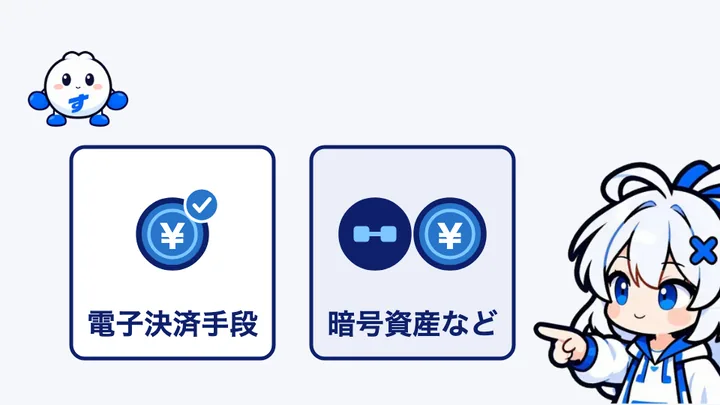
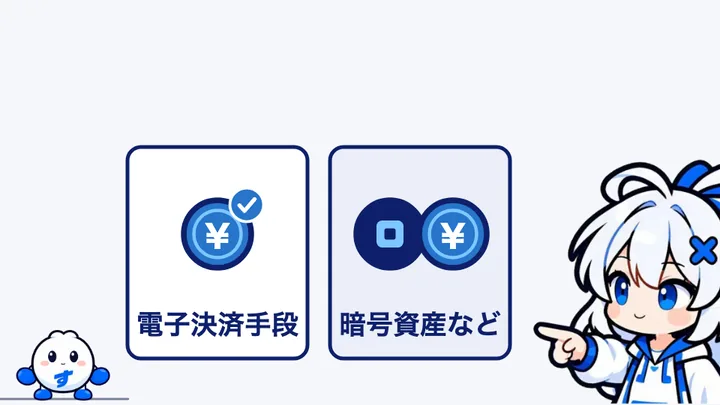
fix(learn): すてぶるくんを床に立たせ、灰色の矢印とサムネイルの副題のコントラストを上げる（Astra のプロンプトも接地・差し出しなし・#2775ca に）

Changed region(s): [[0.0, 0.3556, 0.7333, 1.0], [0.0306, 0.1185, 0.1833, 0.3259]]

diff --git a/scripts/figures/engine.js b/scripts/figures/engine.js
@@ -4,8 +4,8 @@
 (function () {
   "use strict";
   const W = 960, H = 540;
-  // 青は サイトの青（#2775ca。2026-11-06 に統一）。ほかはキャラクターの配色
-  const C = { blue: "#2775ca", light: "#7EC6FF", silver: "#EBEEF7", navy: "#0F206B", white: "#FFFFFF", bg: "#F6F7FB", gray: "#8a93a8" };
+  // 青は サイトの青（#2775ca。2026-11-06 に統一）。ほかはキャラクターの配色。gray は背景 #F6F7FB に対して 3.5:1（線・矢印に使う。3:1 以上）
+  const C = { blue: "#2775ca", light: "#7EC6FF", silver: "#EBEEF7", navy: "#0F206B", white: "#FFFFFF", bg: "#F6F7FB", gray: "#7a8399" };
   const FONT = '"Hiragino Sans", "Hiragino Kaku Gothic ProN", "Noto Sans JP", "Yu Gothic", sans-serif';
 
   // ---------- 動き ----------
@@ -132,10 +132,9 @@
     },
     crypto(ctx) {
       ctx.beginPath(); ctx.arc(0, 0, 30, 0, Math.PI * 2); shape(ctx, C.navy);
-      // 実在の暗号資産の印に似ないよう、図のブロックチェーンと同じ「つながった箱」にする
-      ctx.beginPath(); ctx.moveTo(-6, 0); ctx.lineTo(6, 0); shape(ctx, null, C.light, 4);
-      rr(ctx, -19, -7, 14, 14, 3); shape(ctx, C.light, null);
-      rr(ctx, 5, -7, 14, 14, 3); shape(ctx, C.light, null);
+      // 実在の暗号資産の印に似ないよう、図のブロックチェーンと同じ「箱」を 1 つ
+      rr(ctx, -12, -12, 24, 24, 5); shape(ctx, C.light, null);
+      rr(ctx, -5, -5, 10, 10, 2); shape(ctx, C.navy, null);
     },
   };
 
@@ -212,22 +211,25 @@
     const w = h * 400 / 388;
     ctx.drawImage(IMG[key], x - w / 2, y - h, w, h);
   }
-  // すてぶるくん（部品 374×261 を左上そろえで重ねる）。(x, y) は中心、w は幅。eyes：open / left / right / wide / half / closed
-  function drawKun(ctx, t, { eyes = "open", mouth = "rest", x = 120, y = 120, w = 150, blinkAt = [], bob = 0 } = {}) {
-    const h = w * 261 / 374;
+  // すてぶるくん（部品 374×261 を左上そろえで重ねる）。起きているときは足を床に付けて立つ（浮くのは寝ているときだけ。README「キャラクターの素材と動き」）。
+  // x は中心、floor は床の高さ（足の裏がここに来る）、w は幅。eyes：open / left / right / wide / half / closed。床の線も一緒に描く
+  const KUN_SOLE = 252 / 261; // 部品の絵の中で、足の裏がある高さ
+  function drawKun(ctx, t, { eyes = "open", mouth = "rest", x = 120, floor = 530, w = 130, blinkAt = [] } = {}) {
+    const h = w * 261 / 374, top = floor - h * KUN_SOLE;
+    ctx.save(); ctx.strokeStyle = C.gray; ctx.lineWidth = 3; ctx.lineCap = "round";
+    ctx.beginPath(); ctx.moveTo(x - w * 0.62, floor); ctx.lineTo(x + w * 0.62, floor); ctx.stroke(); ctx.restore();
     const b = blink(t, blinkAt);
     const e = b === "closed" ? "closed" : b === "half" ? "half" : eyes;
-    const dy = bob * Math.sin(t * Math.PI * 2 / 2.5); // 2.5 秒で 1 往復（図の長さを 2.5 の倍数にすると、つなぎ目で跳ねない）
-    for (const part of ["foot-l", "foot-r"]) ctx.drawImage(IMG[`kun/${part}`], x - w / 2, y - h / 2, w, h);
-    for (const part of ["arm-l", "arm-r", "body", "cheeks", `eyes-${e}`, `mouth-${mouth}`]) ctx.drawImage(IMG[`kun/${part}`], x - w / 2, y - h / 2 + dy, w, h);
+    for (const part of ["foot-l", "foot-r", "arm-l", "arm-r", "body", "cheeks", `eyes-${e}`, `mouth-${mouth}`]) ctx.drawImage(IMG[`kun/${part}`], x - w / 2, top, w, h);
   }
 
   // ---------- 図の登録 ----------
   const canvas = document.getElementById("stage");
   const ctx = canvas.getContext("2d");
   let fig = null;
-  let figureLoaded;
-  const figureReady = new Promise((res) => { figureLoaded = res; });
+  let figureLoaded, figureFailed;
+  const figureReady = new Promise((res, rej) => { figureLoaded = res; figureFailed = rej; });
+  window.figureFailed = (msg) => figureFailed(new Error(msg)); // stage.html が図のファイルを読めなかったときに呼ぶ
   function figure(def) {
     if (!(def.duration >= 6 && def.duration <= 12)) throw new Error("duration は 6〜12 秒");
     fig = def;

diff --git a/scripts/figures/stablecoin-payments/law.js b/scripts/figures/stablecoin-payments/law.js
@@ -1,14 +1,14 @@
 // 日本の資金決済法での区分（本文「日本での位置づけ」）。
 // 法令上の要件を満たして発行された円のステーブルコイン（チェックの印つき）は「電子決済手段」、ビットコインなどは「暗号資産」。
 // 価格が円に連動しているように見えても、仕組みによっては暗号資産などとして扱われる（印のない青いコインが右へ）。
-// 文字は 3 か所まで（2 つの箱の名前と、途中だけ出る すてぶるくんの吹き出し）。
+// 文字は 3 か所まで（2 つの枠の名前と、途中だけ出る すてぶるくんの吹き出し）。すてぶるくんは左下の床に立つ。
 FX.figure({
   duration: 10,
   draw(ctx, t) {
     const { C, COIN, ICON, at, text, rr, shape, bubble, along, track, ramp, clamp, SNAP, HEAVY, PLAY, drawChan, drawKun } = FX;
-    const O = [390, 84]; // コインが出てくる場所（2 つの区分の間の真上）
-    const BIN = [{ x: 230, label: "電子決済手段", at: 0.0, fill: C.white }, { x: 550, label: "暗号資産など", at: 0.25, fill: C.silver }];
-    const TOP = 196, BOT = 478, BW = 270;
+    const O = [425, 84]; // コインが出てくる場所（2 つの区分の間の真上）
+    const BIN = [{ x: 290, label: "電子決済手段", at: 0.0, fill: C.white }, { x: 560, label: "暗号資産など", at: 0.25, fill: C.silver }];
+    const TOP = 196, BOT = 478, BW = 240;
 
     // 区分の枠（コインより奥）。名前は下に
     for (const b of BIN) {
@@ -16,14 +16,14 @@ FX.figure({
       at(ctx, b.x, (TOP + BOT) / 2, s, s, () => {
         const h = BOT - TOP;
         rr(ctx, -BW / 2, -h / 2, BW, h, 18); shape(ctx, b.fill);
-        text(ctx, b.label, 0, h / 2 - 46, { size: 38 });
+        text(ctx, b.label, 0, h / 2 - 46, { size: 36 });
       });
     }
 
     const coins = [
-      { kind: "stable", badge: true, show: 0.9, go: 1.7, to: [230, 312] },
-      { kind: "crypto", badge: false, show: 3.0, go: 3.7, to: [500, 312] },
-      { kind: "stable", badge: false, show: 5.0, go: 7.0, to: [600, 312] },
+      { kind: "stable", badge: true, show: 0.9, go: 1.7, to: [290, 312] },
+      { kind: "crypto", badge: false, show: 3.0, go: 3.7, to: [520, 312] },
+      { kind: "stable", badge: false, show: 5.0, go: 7.0, to: [604, 312] },
     ];
     let watch = null;
     for (const c of coins) {
@@ -43,10 +43,10 @@ FX.figure({
 
     // すてぶるくんの問い（3 つめのコインが迷っている間だけ）
     const q = ramp(t, 5.4, 5.7) * (1 - ramp(t, 6.9, 7.2));
-    at(ctx, 0, 0, 1, q, () => bubble(ctx, "どっち？", 246, 82, { size: 34, tail: -64 }));
+    at(ctx, 0, 0, 1, q, () => bubble(ctx, "どっち？", 88, 430, { size: 30, tail: -6 }));
 
     drawChan(ctx, t, { pose: t < 0.6 ? "normal" : "point", x: 872, h: 330, blinkAt: [0.25] });
-    const dx = watch ? watch[0] - 104 : 0;
-    drawKun(ctx, t, { x: 104, y: 118, w: 150, eyes: dx > 120 ? "right" : "open", mouth: q > 0.5 ? "talk-o" : "rest", blinkAt: [2.4, 8.6] });
+    const dx = watch ? watch[0] - 84 : 0;
+    drawKun(ctx, t, { x: 84, floor: 532, w: 140, eyes: dx > 60 ? "right" : "open", mouth: q > 0.5 ? "talk-o" : "rest", blinkAt: [2.4, 8.6] });
   },
 });

diff --git a/scripts/learn-thumbs/thumb.html b/scripts/learn-thumbs/thumb.html
@@ -32,7 +32,7 @@
   /* Astra の絵の左側は淡い背景だが、文字の下だけ少し白を足して読みやすくする */
   .veil { position: absolute; inset: 0; background: linear-gradient(90deg, rgba(246, 247, 251, 0.9) 0, rgba(246, 247, 251, 0.75) 44%, rgba(246, 247, 251, 0) 58%); }
   .chan { position: absolute; right: -20px; bottom: -30px; height: 500px; }
-  .kun { position: absolute; left: 470px; bottom: 34px; width: 200px; height: 140px; } /* すてぶるちゃんの手から離して、ロゴの右に */
+  .kun { position: absolute; left: 470px; bottom: -4px; width: 200px; height: 140px; } /* すてぶるちゃんの手から離して、ロゴの右に。足を下の縁に付けて立つ（浮くのは寝ているときだけ） */
   .kun img { position: absolute; inset: 0; width: 100%; height: 100%; }
   .text {
     position: absolute;
@@ -53,7 +53,7 @@
   }
   h1 { margin: 30px 0 0; font-size: 70px; font-weight: 800; line-height: 1.22; letter-spacing: 0.01em; }
   h1 span { display: block; white-space: nowrap; }
-  .sub { margin: 18px 0 0; font-size: 32px; font-weight: 700; color: #2775ca; }
+  .sub { margin: 18px 0 0; font-size: 32px; font-weight: 700; color: #1f5fa8; } /* 背景 #F6F7FB に対して 6:1（4.5:1 以上） */
   .logo { margin-top: auto; align-self: flex-start; height: 46px; }
 </style>
 </head>

diff --git a/scripts/figures/stablecoin-payments/flow.js b/scripts/figures/stablecoin-payments/flow.js
@@ -56,9 +56,9 @@ FX.figure({
     const ok = track(t, 6.6, PLAY);
     at(ctx, SHOP[0] + 58, SHOP[1] - 110, ok * 1.3, ok, () => ICON.check(ctx));
 
-    // すてぶるちゃん（右下。手のひらで図を示す）・すてぶるくん（左上で、お金を目で追う）
+    // すてぶるちゃん（右下。手のひらで図を示す）・すてぶるくん（下の床に立って、お金を目で追う）
     drawChan(ctx, t, { pose: t < 1.3 ? "normal" : "palm", x: 872, h: 340, blinkAt: [0.8] });
-    const dx = coin ? coin[0] - 76 : 0;
-    drawKun(ctx, t, { x: 76, y: 92, w: 140, eyes: dx > 90 ? "right" : dx < -90 ? "left" : "open", mouth: t > 3.05 && t < 3.9 ? "o" : "rest", blinkAt: [1.0, 8.2] });
+    const dx = coin ? coin[0] - 372 : 0;
+    drawKun(ctx, t, { x: 372, floor: 532, w: 112, eyes: dx > 60 ? "right" : dx < -60 ? "left" : "open", mouth: t > 3.05 && t < 3.9 ? "o" : "rest", blinkAt: [1.0, 8.2] });
   },
 });

diff --git a/marketing/thumbnails/astra-prompts.md b/marketing/thumbnails/astra-prompts.md
@@ -25,7 +25,7 @@
 
 【画風と色】
 ・添付の設定資料のキャラクターと同一人物・同じ衣装・同じ配色・同じ画風（太めの紺の輪郭、白と青が主役のフラットな塗り、やわらかい陰影）。
-・配色：メインブルー #2563FF／ライトブルー #7EC6FF／シルバー #EBEEF7／ネイビー #0F206B／ホワイト #FFFFFF。背景は #F6F7FB〜#EAF2FF の明るい色を基調に、差し色はメインブルー 1 つ。
+・配色：メインブルー #2775ca（サイトの青。2026-11-06 に統一）／ライトブルー #7EC6FF／シルバー #EBEEF7／ネイビー #0F206B／ホワイト #FFFFFF。背景は #F6F7FB〜#EAF2FF の明るい色を基調に、差し色はメインブルー 1 つ。
 ・明るく清潔で、やさしい雰囲気。写真風・3D・グラデーションのギラつき・グロー・レンズフレア・キラキラ・集中線は使わない。
 
 【文字の禁止】
@@ -34,9 +34,9 @@
 
 【キャラクターの決まり】
 ・左右反転した絵にしない。すてぶるちゃんのリボンとヘアピンは設定資料と同じ側（本人の左）、すてぶるくんのおなかの「す」は正しい向き。
-・すてぶるちゃんは、説明する側。上半身か全身を正面寄りで描く。スカートの中が見えるポーズや下からのアングルにしない。
-・すてぶるくんは、白くて丸い体で宙に少し浮いている。平熱の表情（真顔・ぽかん・半目）。大げさに笑わない。
-・二人とも、お金・硬貨・お札・クレジットカード・スマホを手に持たない（小道具は二人の近くに浮かべるか、台の上に置く）。
+・すてぶるちゃんは、説明する側。手を前（見る人の側）に差し出すポーズにはしない。示すときは手のひらを上に向けて横を示すか、人さし指で指すか、胸の前で小さくこぶし。上半身か全身を正面寄りで描く。スカートの中が見えるポーズや下からのアングルにしない。
+・すてぶるくんは、白くて丸い体。起きているときは足を床に付けて立つ（浮くのは寝ているときだけ）。平熱の表情（真顔・ぽかん・半目）。大げさに笑わない。
+・二人とも、お金・硬貨・お札・クレジットカード・スマホを手に持たない（小道具は二人の近くの宙に浮かべるか、台の上に置く）。
 ・表情は大げさにしない。怒鳴る顔・泣き顔・汗や血管マークは描かない。
 ・恋人・親子・主従に見える距離感にしない。並んで同じものを見ている構図が基本。
 
@@ -49,7 +49,7 @@
 ### stablecoin-payments（ステーブルコイン決済とは）
 
 ```text
-【場面】右側に、円の形をした大きな青いコイン（表面は模様だけ）が宙に浮かび、そこから細い光の線が、小さなお店の建物のアイコンへ伸びている。すてぶるちゃんは手のひらを上に向けて、そのコインを示している（説明する顔）。すてぶるくんはコインの横に浮かんで、ぽかんとコインを見上げている。
+【場面】右側に、円の形をした大きな青いコイン（表面は模様だけ）が宙に浮かび、そこから細い光の線が、小さなお店の建物のアイコンへ伸びている。すてぶるちゃんは手のひらを上に向けて、そのコインを示している（説明する顔）。すてぶるくんはコインの下に立って、ぽかんとコインを見上げている。
 ```
 
 ### jpyc-payments（JPYC 決済をお店に導入するには）
@@ -67,13 +67,13 @@
 ### no-screening-payments（決済代行に審査なしはある？）
 
 ```text
-【場面】右側に、明るく開いた扉（ドア）。扉の向こうは、やわらかい光の明るい空間。すてぶるちゃんは手のひらを上に向けて、扉のほうを示している。すてぶるくんは扉の前に浮かんで、向こう側をのぞいている。扉の脇に、小さな盾の形のアイコンが 1 つ浮かんでいる（規約と法令の前提を表す）。
+【場面】右側に、明るく開いた扉（ドア）。扉の向こうは、やわらかい光の明るい空間。すてぶるちゃんは手のひらを上に向けて、扉のほうを示している。すてぶるくんは扉の前に立って、向こう側をのぞいている。扉の脇に、小さな盾の形のアイコンが 1 つ浮かんでいる（規約と法令の前提を表す）。
 ```
 
 ### payment-fees（決済手数料の比べ方）
 
 ```text
-【場面】右側に、大きな天びん。左右の皿に、大きさの違う青と水色の積み木（模様だけ）が載っている。そばに、ボタンだけの無地の電卓が浮かんでいる。すてぶるちゃんはあごに手を当てて天びんを見比べている。すてぶるくんは電卓の横に浮かんで、真顔で電卓を見ている。
+【場面】右側に、大きな天びん。左右の皿に、大きさの違う青と水色の積み木（模様だけ）が載っている。そばに、ボタンだけの無地の電卓が浮かんでいる。すてぶるちゃんはあごに手を当てて天びんを見比べている。すてぶるくんは電卓の置かれた台の横に立って、真顔で電卓を見ている。
 ```
 
 ### chargeback（チャージバックとは）
@@ -91,25 +91,25 @@
 ### what-is-stablecoin（ステーブルコインとは）
 
 ```text
-【場面】右側に、まっすぐ水平につり合ったシーソー。片側に青い丸いコイン（模様だけ）、反対側に紙のお札の形（無地の帯）が載っていて、ぴったり同じ高さ。すてぶるちゃんは手のひらを上に向けて、つり合っていることを示している。すてぶるくんはシーソーの真ん中の上に浮かんで、半目で左右を見比べている。
+【場面】右側に、まっすぐ水平につり合ったシーソー。片側に青い丸いコイン（模様だけ）、反対側に紙のお札の形（無地の帯）が載っていて、ぴったり同じ高さ。すてぶるちゃんは手のひらを上に向けて、つり合っていることを示している。すてぶるくんはシーソーの支点の前に立って、半目で左右を見比べている。
 ```
 
 ### payment-gateway（決済代行とは）
 
 ```text
-【場面】右側に、まん中の大きな丸いハブ（青い円）から、何本もの線が放射状に伸び、先に小さなアイコンがつながっている（無地のカード、建物、スマホ、コンビニの建物の形）。反対側の 1 本は、小さなお店のアイコンにつながっている。すてぶるちゃんは人さし指でハブを指している。すてぶるくんは線の 1 本の上に浮かんで、線の先を見ている。
+【場面】右側に、まん中の大きな丸いハブ（青い円）から、何本もの線が放射状に伸び、先に小さなアイコンがつながっている（無地のカード、建物、スマホ、コンビニの建物の形）。反対側の 1 本は、小さなお店のアイコンにつながっている。すてぶるちゃんは人さし指でハブを指している。すてぶるくんはハブの下に立って、線の先を見ている。
 ```
 
 ### accept-credit-cards（ネットショップでクレジットカード決済を導入するには）
 
 ```text
-【場面】右側に、ノートパソコン（画面は色の帯とボタンの形だけ）と、そこへ向かう 3 つの丸い飛び石の道。飛び石の最後に、白いチェックマークの青い丸。すてぶるちゃんは胸の前で小さくこぶしを握っている。すてぶるくんは飛び石の 2 つめの上に浮かんでいる。
+【場面】右側に、ノートパソコン（画面は色の帯とボタンの形だけ）と、そこへ向かう 3 つの丸い飛び石の道。飛び石の最後に、白いチェックマークの青い丸。すてぶるちゃんは胸の前で小さくこぶしを握っている。すてぶるくんは飛び石の 2 つめの上に立っている。
 ```
 
 ### online-payment-methods（ネットショップの決済方法の選び方）
 
 ```text
-【場面】右側に、小さな棚。棚には、いろいろな決済方法を表すアイコンが並んでいる（無地の青いカード、コンビニの建物、銀行の建物、QR コード風の四角い模様のスマホ、丸い青いコイン、配達の箱）。すてぶるちゃんは手のひらを上に向けて、棚を紹介している。すてぶるくんは棚の前に浮かんで、どれにしようか真顔で見比べている。
+【場面】右側に、小さな棚。棚には、いろいろな決済方法を表すアイコンが並んでいる（無地の青いカード、コンビニの建物、銀行の建物、QR コード風の四角い模様のスマホ、丸い青いコイン、配達の箱）。すてぶるちゃんは手のひらを上に向けて、棚を紹介している。すてぶるくんは棚の前に立って、どれにしようか真顔で見比べている。
 ```
 
 ### card-expression-restrictions（カード会社の表現規制はなぜ起きる？）
@@ -121,5 +121,5 @@
 ### policy-expression（表現に関するすてぶるペイの方針）
 
 ```text
-【場面】右側に、大きな額縁がいくつか並んだ明るい壁（額の中身は、色の違う抽象的な形や模様だけ。風景・人物・性的な表現は描かない）。すてぶるちゃんは決めポーズ：本人の右手を向かって左へ差し伸べる。すてぶるくんは青い座布団の上に、真顔で浮かんでいる。
+【場面】右側に、大きな額縁がいくつか並んだ明るい壁（額の中身は、色の違う抽象的な形や模様だけ。風景・人物・性的な表現は描かない）。すてぶるちゃんは手のひらを上に向けて、額縁のほうを示している（手を前に差し出すポーズにはしない）。すてぶるくんは青い座布団の上に、真顔で座っている。
 ```
